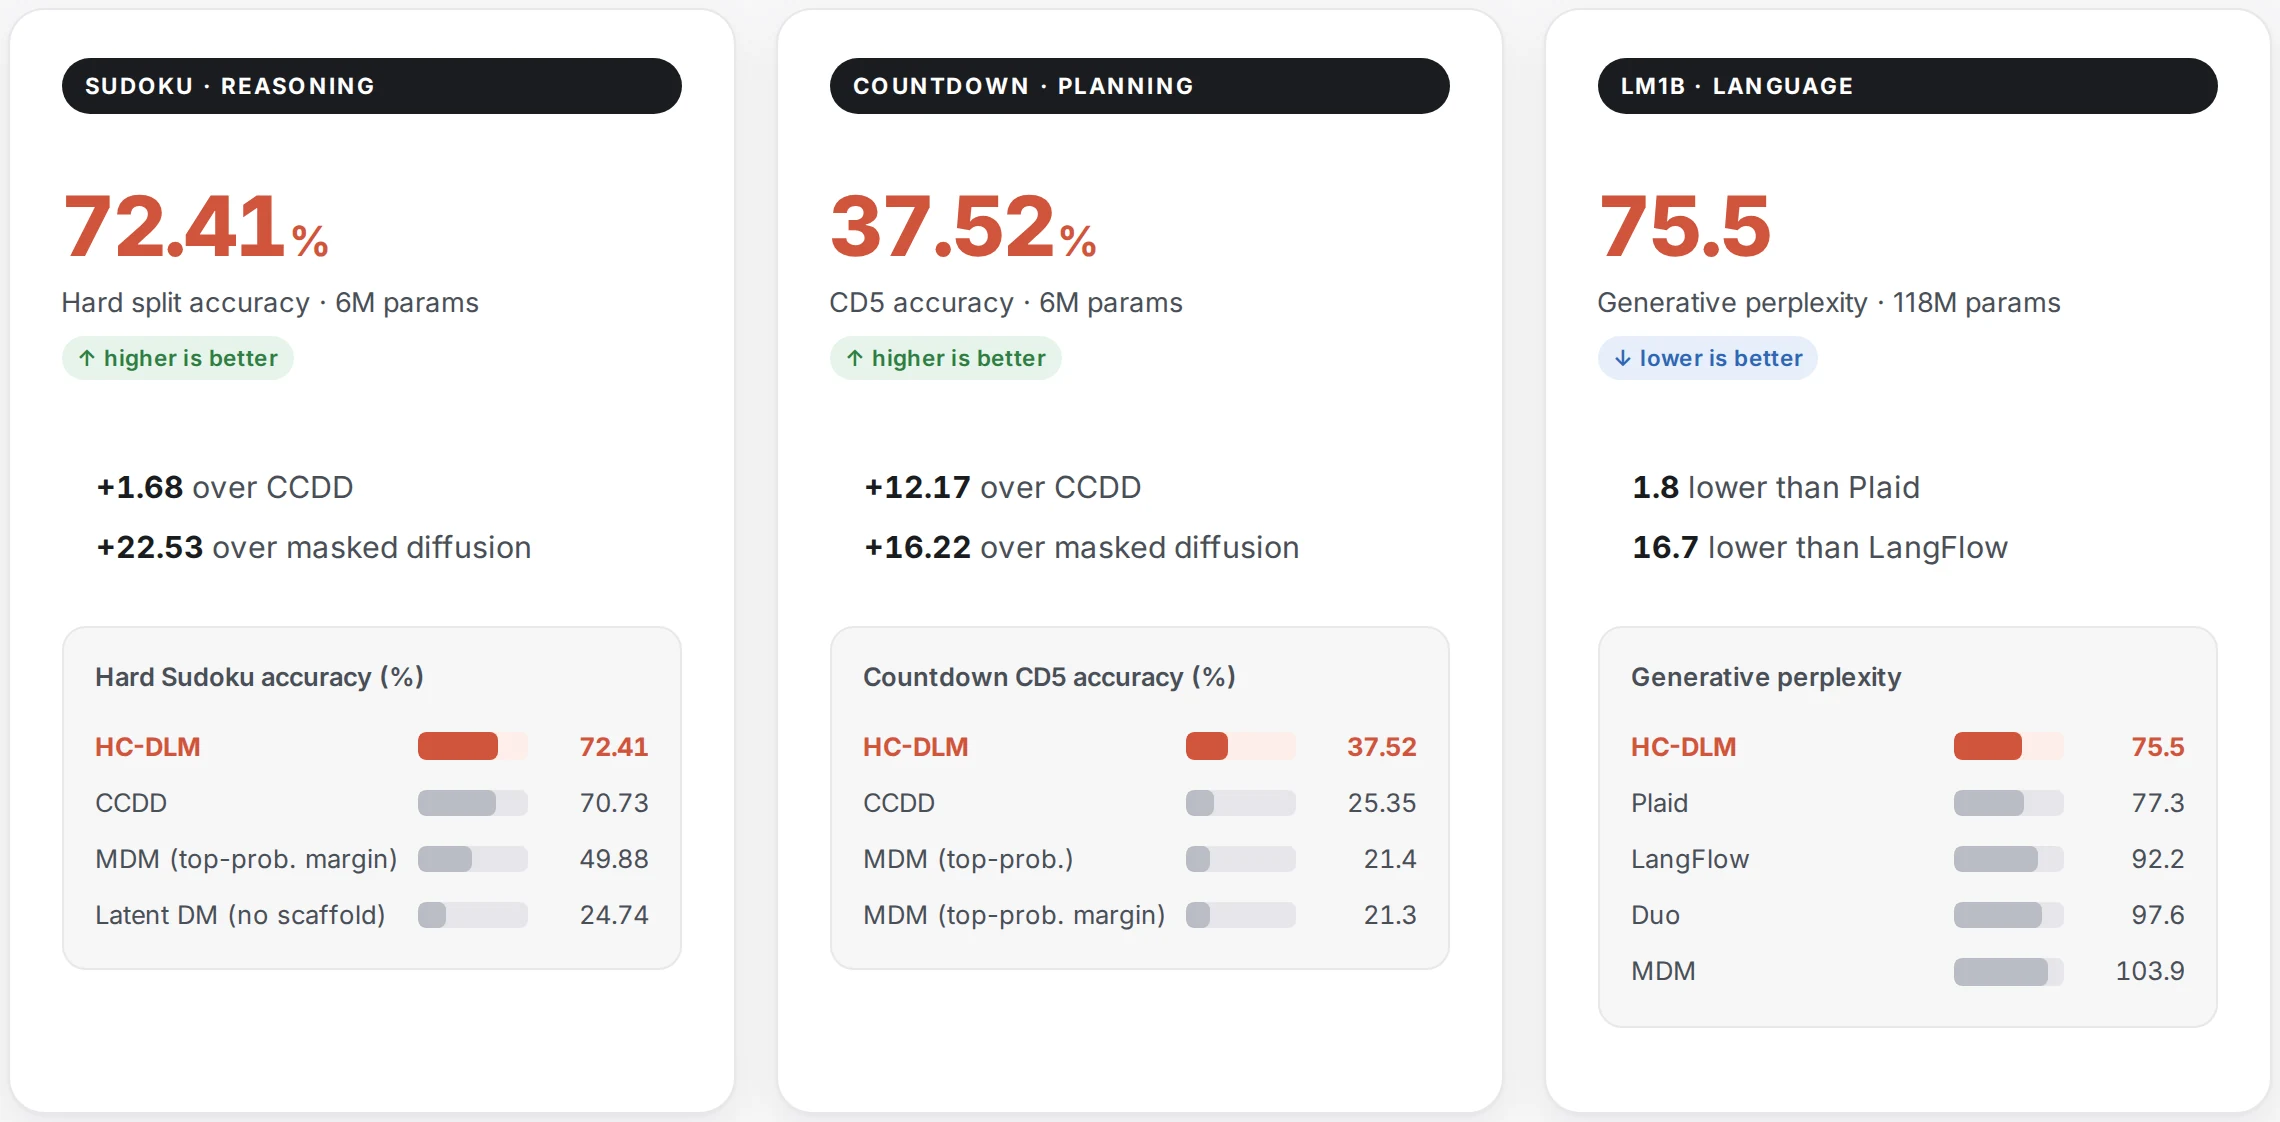
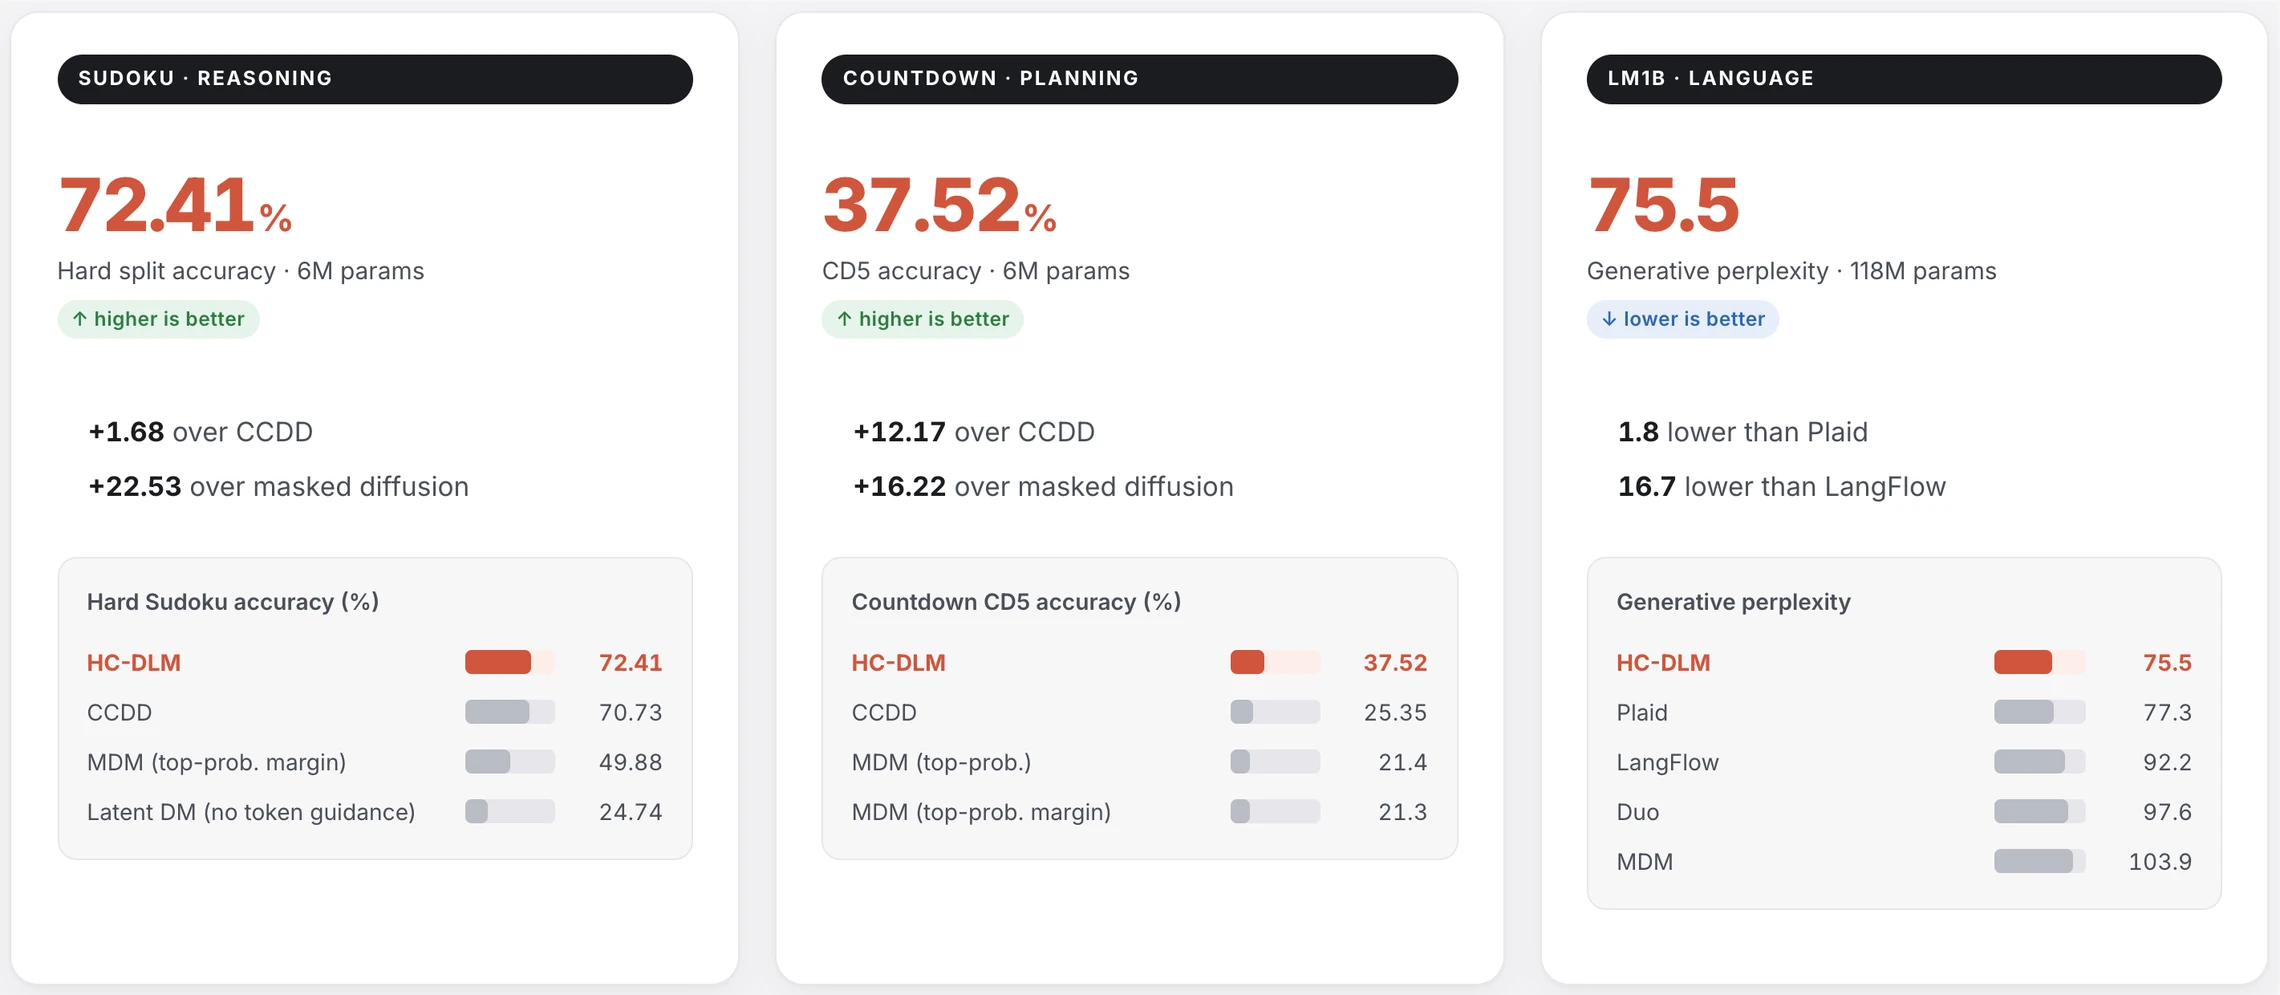
update

diff --git a/README.md b/README.md
@@ -6,6 +6,8 @@
   <img alt="Artifacts" src="https://img.shields.io/badge/Artifacts-coming%20soon-d1553c">
 </p>
 
+<p align="center"><b>Augmenting Continuous Diffusion Language Models with Discrete Token Guidance</b></p>
+
 <p align="center">
   <a href="https://rhfeiyang.top/">Hui Ren</a><sup>1</sup>,
   <a href="https://www.linkedin.com/in/zihan-li-616b68325/">Zihan Li</a><sup>1</sup>,
@@ -15,61 +17,57 @@
   <sup>1</sup>University of Illinois Urbana-Champaign &nbsp;&nbsp; <sup>2</sup>Amazon.com, Inc.
 </p>
 
-<p align="center"><i><b>HC-DLM</b> is a diffusion language model whose only persistent state is a continuous latent:<br>tokens are read out of it at every step and fed back as the scaffold for the next.</i></p>
+<p align="center"><i><b>HC-DLM</b> augments continuous diffusion language models with discrete token guidance:<br>a shared latent plans every token jointly, while tokens read out at each step keep it anchored to valid text.</i></p>
 
 <p align="center">
-  <a href="https://hc-dlm.github.io/"><img src="assets/demo.gif" alt="One HC-DLM reverse trajectory on a sentence: the continuous latent is denoised step by step; at every step the whole sentence is read out of it, re-noised, and fed back as the scaffold for the next latent update, so early words can still be revised." width="860"></a>
+  <a href="https://hc-dlm.github.io/"><img src="assets/demo.gif" alt="One simulated HC-DLM reverse trajectory on a sentence: the continuous latent is denoised step by step; at every step a token draft is read out of it and fed back to guide the next latent update, so early words can still be revised." width="860"></a>
 </p>
-<p align="center"><sub>One reverse trajectory on a sentence. Interactive version on the <a href="https://hc-dlm.github.io/">project page</a>.</sub></p>
+<p align="center"><sub>The latent plans, the tokens guide, at every step (simulated example). Interactive version on the <a href="https://hc-dlm.github.io/">project page</a>.</sub></p>
 
 
 ## 💡 Idea
 
-Both families of diffusion language models leave something on the table:
+Each family of diffusion language models has a blind spot:
 
-- **Discrete diffusion** decodes in parallel, but samples every token from its own marginal.
-- **Continuous diffusion** denoises one shared state, but nothing ties that state to a valid token sequence until the end.
+- **Discrete diffusion** decodes tokens in parallel, but samples each one **independently** from its marginal.
+- **Continuous diffusion** plans all tokens in one shared latent, but **never checks that plan against real tokens** until the very end.
 
-HC-DLM makes the reverse process a **hierarchy**. The continuous latent is the only state that persists across steps; the tokens are read out of it at every step and fed back as the scaffold for the next latent update.
+HC-DLM keeps both strengths: tokens are planned jointly in the latent, and the latent is guided by tokens at every step. The continuous latent is the only persistent generative state; at every step the model reads a token draft $k_t$ out of the latent $x_t$, and that draft guides the next latent update.
 
 $$
-p_{\theta,\phi}(k_{0:T},x_{0:T})=p(x_T)\,p_\theta(k_0\mid x_0)\prod_{t=1}^{T}\underbrace{p_\theta(k_t\mid x_t)}_{\text{read out}}\;\underbrace{p_\phi(x_{t-1}\mid x_t,k_t)}_{\text{feed back}}
+p_{\theta,\phi}(k_{0:T},x_{0:T})=p(x_T)\,p_\theta(k_0\mid x_0)\prod_{t=1}^{T}\underbrace{p_\theta(k_t\mid x_t)}_{\text{read out tokens}}\;\underbrace{p_\phi(x_{t-1}\mid x_t,k_t)}_{\text{token-guided latent denoising}}
 $$
 
-Each reverse step does three things:
+<p align="center">
+  <img src="assets/comparison.png" alt="Four reverse-step diagrams. (a) Discrete diffusion: tokens k_t go to k_{t-1} through a learned predictor, with no latent. (b) Continuous diffusion: the latent x_t goes to x_{t-1}; tokens are decoded only at t = 0. (c) Hybrid diffusion: a discrete chain and a continuous chain run side by side and condition each other. (d) HC-DLM: tokens are read out of x_t and condition the latent update p_phi(x_{t-1} | x_t, k_t)." width="860">
+</p>
+<p align="center"><sub><b>One reverse step, four designs.</b> Discrete diffusion updates tokens directly, one marginal at a time. Continuous diffusion denoises a latent that is blind to tokens and decodes only at the end. Hybrid models attach a continuous signal to a self-contained discrete chain. In HC-DLM the two levels talk at every step: tokens are read out of the latent, then guide its next update.</sub></p>
 
-<table>
-  <tr>
-    <th align="center" width="33%">① Denoise</th>
-    <th align="center" width="33%">② Read out</th>
-    <th align="center" width="33%">③ Re-noise</th>
-  </tr>
-  <tr>
-    <td align="center">Conditioned on the current token scaffold, the denoiser estimates the clean latent and advances the latent one step.</td>
-    <td align="center">The token predictor decodes the whole sequence from that estimate, so parallel tokens share one cause.</td>
-    <td align="center">The known forward kernel corrupts the read-out tokens to the next level; nothing is ever frozen.</td>
-  </tr>
-</table>
+|                                 | Discrete diffusion<br><sub>e.g. MDM, LLaDA</sub> | Continuous diffusion<br><sub>e.g. Diffusion-LM, Plaid</sub> | Hybrid discrete–continuous<br><sub>e.g. CADD, CCDD</sub> | **HC-DLM (ours)** |
+|---------------------------------|:---:|:---:|:---:|:---:|
+| Token dependence within a step  | ✕<br><sub>independent marginals</sub> | ✓ | ◐<br><sub>via conditioning only</sub> | ✓ |
+| Tied to tokens at every step    | ✓ | ✕<br><sub>only at <i>t</i> = 0</sub> | ✓ | ✓ |
+| Tokens revisable at every step  | ◐<br><sub>uniform kernel only</sub> | ✓ | ◐<br><sub>uniform kernel only</sub> | ✓<br><sub>readout from <i>x<sub>t</sub></i></sub> |
 
-The tokens have no transition chain of their own, which separates HC-DLM from hybrid models that attach a continuous signal to a self-contained discrete chain. A single variational bound on the token likelihood trains the encoder, the denoiser and the token predictor together.
+Noise corrupts tokens and latent independently, so training stays simple. A single variational bound on the token likelihood splits into three terms and trains everything end to end: reconstruction for the token readout, token-guided flow matching for the latent denoiser, and an entropy term that keeps the encoder from collapsing.
 
 <p align="center">
   <img src="assets/training.webp" alt="Training pipeline: an encoder maps clean tokens to a latent, independent forward kernels produce the noisy pair, the token-conditioned denoiser predicts the clean latent, and the token predictor decodes the latent back to tokens." width="680">
 </p>
-<p align="center"><sub>Training: an encoder maps clean tokens to a latent, independent forward kernels produce the noisy pair, the token-conditioned denoiser predicts the clean latent, and the token predictor decodes it back to tokens.</sub></p>
+<p align="center"><sub><b>One principled objective, trained end to end.</b> An encoder maps clean tokens to a latent, independent forward kernels produce the noisy pair, the token-conditioned denoiser predicts the clean latent, and the token predictor decodes it back to tokens.</sub></p>
 
 ## 📊 Results
 
-Structured reasoning (Sudoku), mathematical planning (Countdown) and language modeling (LM1B), against discrete, continuous and hybrid diffusion baselines at matched model size.
+From Sudoku and Countdown to open-domain text, HC-DLM leads discrete, continuous and hybrid diffusion baselines of the same size on Hard Sudoku, Countdown and LM1B. Parameter counts exclude token embeddings.
 
 <p align="center">
   <img src="assets/results.webp" alt="Hard Sudoku accuracy 72.41% at 6M parameters, 1.68 over CCDD and 22.53 over masked diffusion; Countdown CD5 accuracy 37.52% at 6M, 12.17 over CCDD; LM1B generative perplexity 75.5, 1.8 lower than Plaid and 16.7 lower than LangFlow." width="860">
 </p>
 
 <p align="center">
-  <img src="assets/analysis.webp" alt="Two line charts. Left: Sudoku accuracy of the decoded intermediate prediction along the trajectory rises earlier and higher for HC-DLM than for a latent diffusion model without the token scaffold. Right: Hard Sudoku accuracy against the number of denoising steps stays high for HC-DLM while MDM degrades as steps are reduced." width="760">
+  <img src="assets/analysis.webp" alt="Two line charts. Left: Sudoku accuracy of the decoded intermediate prediction along the trajectory rises earlier and higher for HC-DLM than for a latent diffusion model without token guidance. Right: Hard Sudoku accuracy against the number of denoising steps stays high for HC-DLM while MDM degrades as steps are reduced." width="760">
 </p>
-<p align="center"><sub><b>Left:</b> the scaffold locks in structure early: accuracy of the intermediate prediction along the trajectory, vs. latent diffusion without it. <b>Right:</b> robust to fewer steps: Hard Sudoku accuracy vs. number of denoising steps, vs. MDM.</sub></p>
+<p align="center"><sub><b>Left:</b> solutions emerge early: accuracy of the intermediate prediction decoded at each step, vs. latent diffusion without token guidance. <b>Right:</b> holds up with fewer steps: Hard Sudoku accuracy against step count; MDM degrades sharply as steps shrink.</sub></p>
 
 <details>
 <summary><b>📋 Full tables</b> (accuracy %; generative perplexity, lower is better)</summary>
@@ -93,13 +91,13 @@ Structured reasoning (Sudoku), mathematical planning (Countdown) and language mo
 | Plaid      |   109M |       77.3 |
 | **HC-DLM** |   118M |   **75.5** |
 
-**Ablation:** removing either level falls well short of the full model (Hard Sudoku accuracy %).
+**Ablation:** neither level works alone. Latent DM removes token guidance from the denoiser; MDM removes the latent altogether (Sudoku accuracy %).
 
-| Variant                                 | Hard Sudoku |
-|-----------------------------------------|------------:|
-| Continuous only (no token scaffold)     |       24.74 |
-| Discrete only (purely discrete chain)   |       49.88 |
-| **HC-DLM** (both levels)                |   **72.41** |
+| Method                          | Cont. latent | Token guidance |      Easy |      Hard |
+|---------------------------------|:------------:|:--------------:|----------:|----------:|
+| MDM (top-prob. margin)          |      ✕       |       ✕        |     89.49 |     49.88 |
+| Latent DM (w/o token guidance)  |      ✓       |       ✕        |     50.46 |     24.74 |
+| **HC-DLM**                      |      ✓       |       ✓        | **94.21** | **72.41** |
 
 </details>
 
